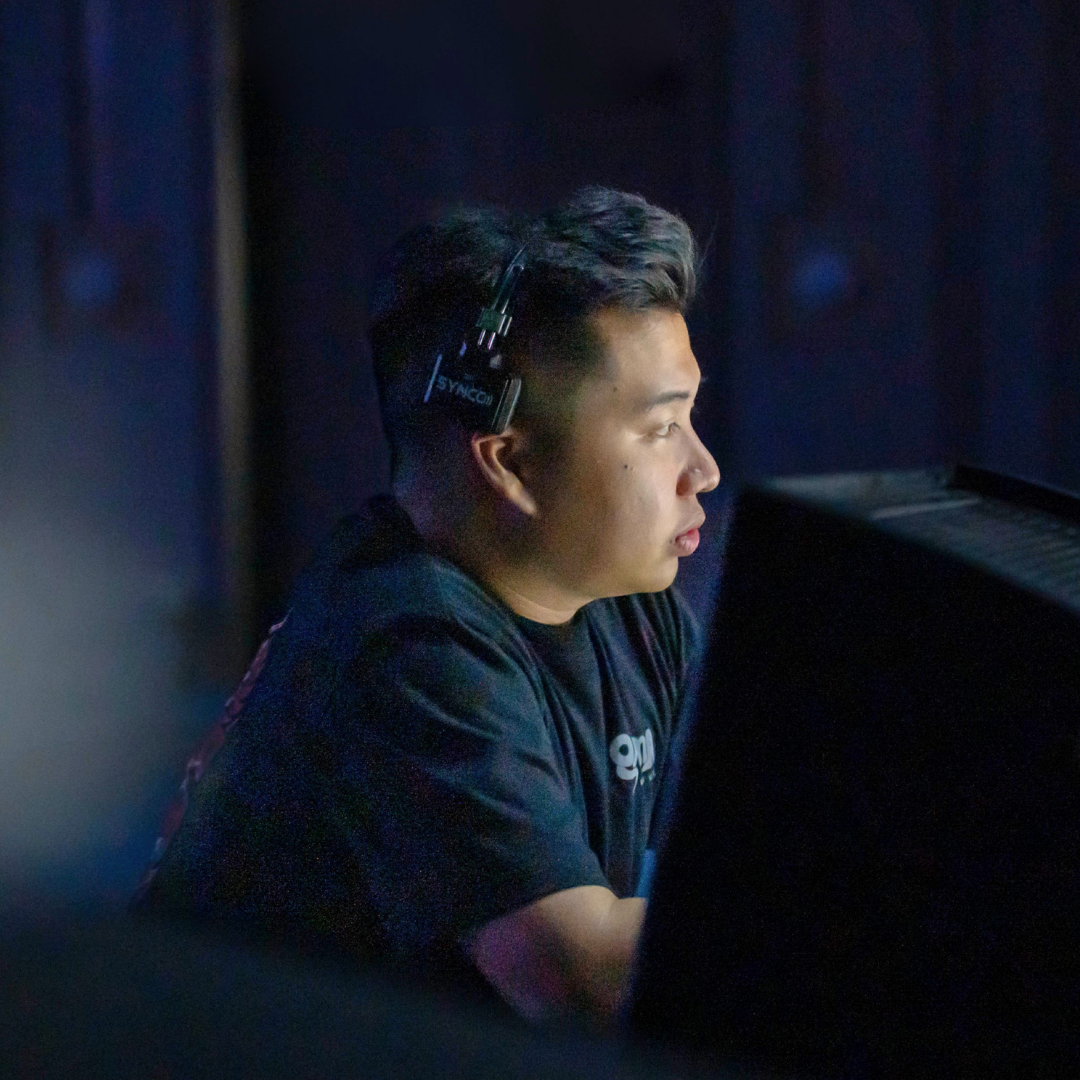
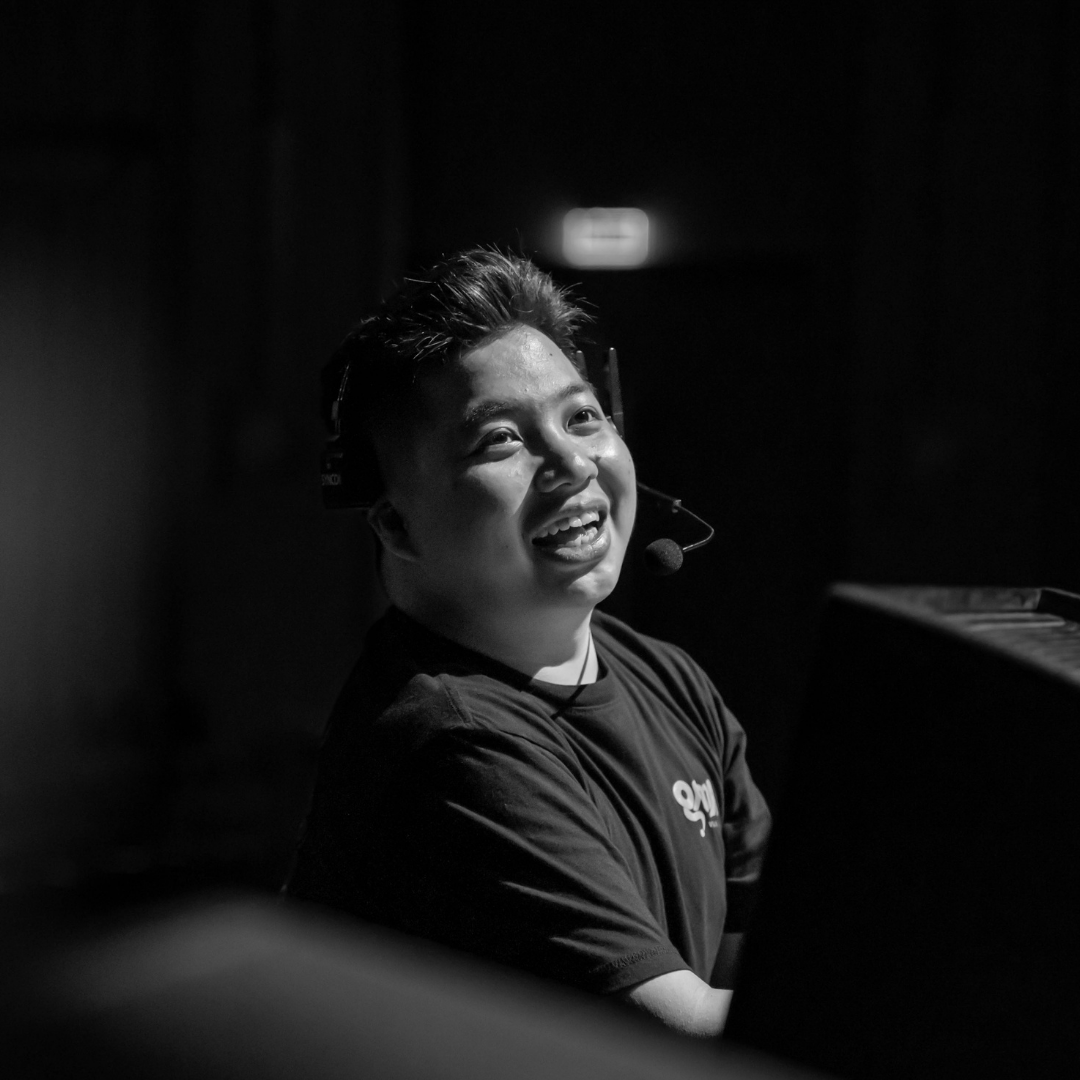
+ asset foto n a couple modification

diff --git a/GamaVisualWeb/src/data/songs.ts b/GamaVisualWeb/src/data/songs.ts
@@ -1,7 +1,7 @@
 import tasyaImg from "../assets/Tasya.jpg";
 import otnielImg from "../assets/KoOT.jpeg";
 import felixImgSDD from "../assets/felixsdd.png";
-import tasyaImgSDD from "../assets/tasyasdd.jpg";
+import tasyaImgSDD from "../assets/tasyasdd.png";
 import otnielImgSDD from "../assets/kootsdd.png";
 import q2 from "../assets/2.png";
 import q3 from "../assets/3.png";
@@ -35,6 +35,7 @@ import m6sdd from "../assets/m6sdd.png";
 import m7sdd from "../assets/m7sdd.png";
 
 import bts1 from "../assets/SiaranRadioMei.jpeg";
+import bts2 from "../assets/btskasihmu.png";
 
 import KasihMuTakBerubah from "../assets/YTThumbnailKasihMuTakBerubah.png";
 import SatuDalamDoa from "../assets/YTThumbnailSDD.png";
@@ -88,7 +89,7 @@ export const songCatalog: Song[] = [
         image: otnielImg 
       }
     ],
-    bts: [bts1],
+    bts: [bts1, bts2],
     images: {
       cover: KasihMuTakBerubah
     },

diff --git a/GamaVisualWeb/src/pages/AlbumPage.tsx b/GamaVisualWeb/src/pages/AlbumPage.tsx
@@ -134,7 +134,7 @@ const AlbumPage: React.FC = () => {
             <IconButton 
             onClick={() => scrollCarousel("left")}
             sx={{ 
-                position: "absolute", 
+                position: "absolute",   
                 left: { xs: 12, md: 30 }, 
                 top: "50%",
                 transform: "translateY(-50%)",
